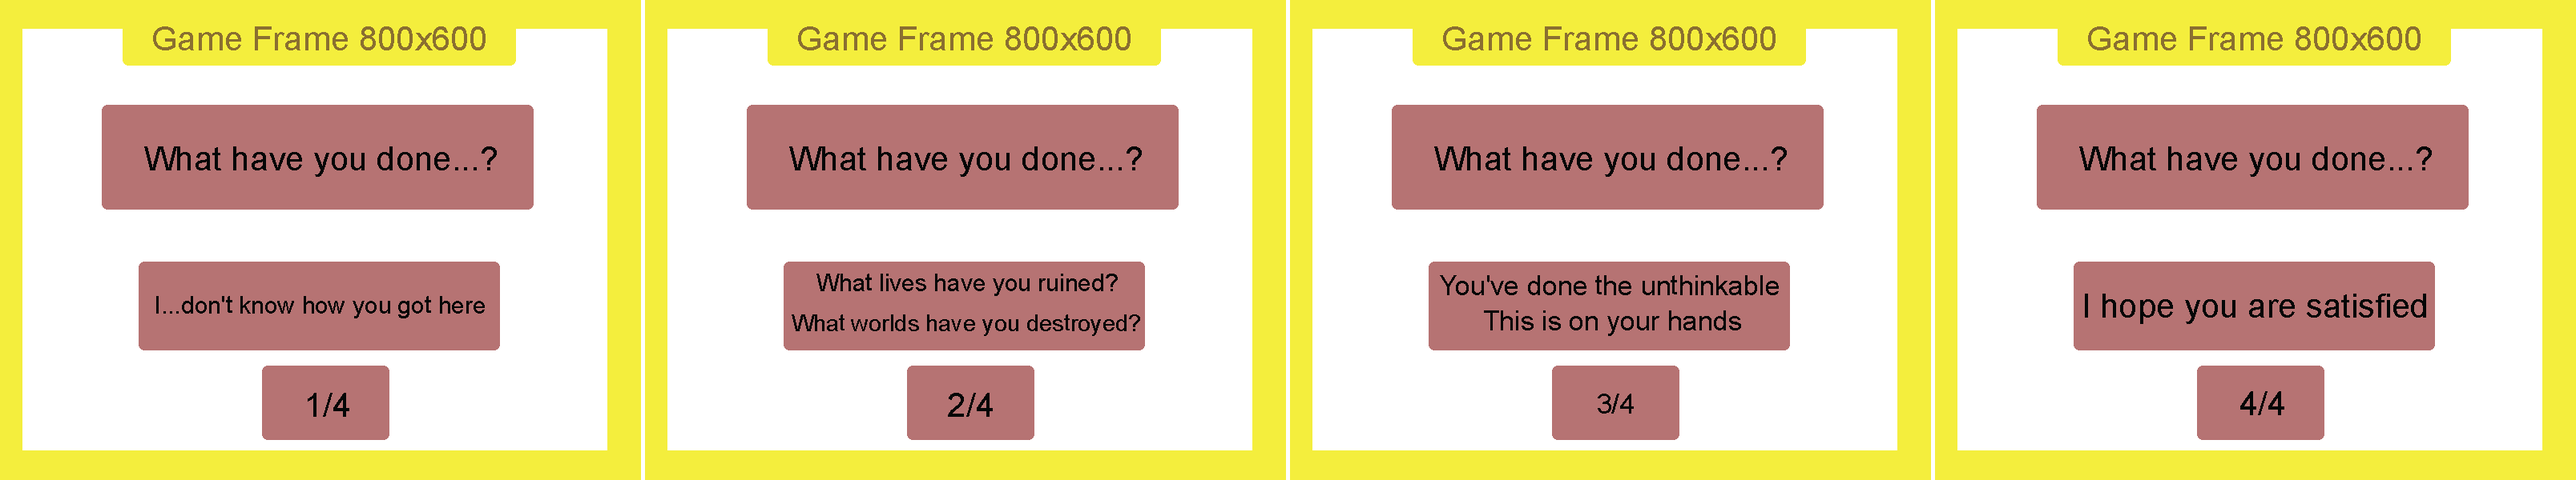
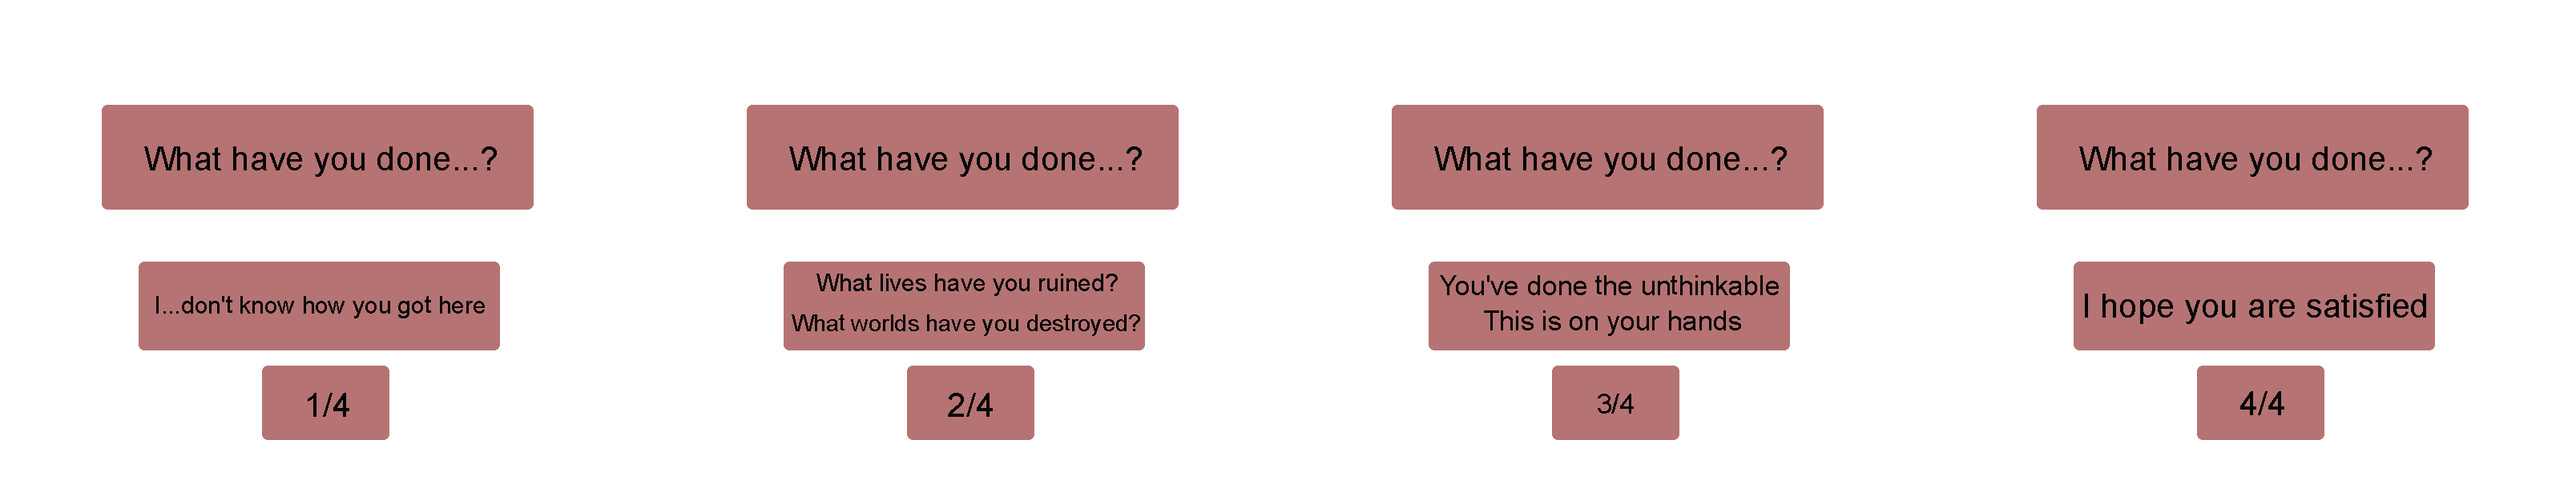
Asset upgrade

Changed region(s): [[0.0, 0.0, 1.0, 1.0]]

diff --git a/src/scenes/outro.rs b/src/scenes/outro.rs
@@ -4,10 +4,11 @@ use crate::game_logic::scene_type::{SceneReturn, PlayerType};
 use quicksilver::prelude::*;
 use quicksilver::graphics::Atlas;
 
-
 #[allow(unreachable_patterns, dead_code)]
 pub struct ElderOutro {
     outro_background: Asset<Image>,
+    outro_overlay: Asset<Image>,
+
     outro_scenes: Asset<Atlas>,
     curr_scene_index: usize,
     max_scenes: usize,
@@ -22,7 +23,8 @@ impl ElderOutro {
     /// Load the assets and initialise the game
     pub fn new() -> Result<Self> {
         let font_mononoki = "square.ttf";
-        let background = "GCSeamlessBackground800x600.png";
+        let background = "PHGameBackground.png";
+        let overlay = "PHOverlayFade.png";
         let enter = "Enter-120x90.png";
         //I declare like this because it is a sensible way to organize arbitrary ordered images
         let atlas_index = "Atlas_Outro_Index";
@@ -30,13 +32,15 @@ impl ElderOutro {
         //Font Load
         let text_info = Asset::new(Font::load(font_mononoki).and_then( |font| {
             font.render(
-                "Square font am I, outro this is.",
+                "You are in the outro.",
                 &FontStyle::new(20.0, Color::BLACK),
             )
         }));
 
         Ok(Self {
             outro_background: Asset::new(Image::load(background)),
+            outro_overlay: Asset::new(Image::load(overlay)),
+
             outro_scenes: Asset::new(Atlas::load(atlas_index)),
             curr_scene_index: 0,
             max_scenes: 4,
@@ -65,13 +69,25 @@ impl ElderOutro {
 
     /// Draw stuff on the screen
     pub fn draw(&mut self, window: &mut Window) -> Result<()> {
+        let window_center = Vector::new(window.screen_size().x as i32 / 2, window.screen_size().y as i32 / 2);
 
         // Draw the frame
         self.outro_background.execute(|image| {
             window.draw(
                 &image
                     .area()
-                    .with_center((window.screen_size().x as i32 / 2, window.screen_size().y as i32 / 2)),
+                    .with_center((window_center.x, window_center.y)),
+                Img(&image),
+            );
+            Ok(())
+        })?;
+
+        // Draw the background
+        self.outro_overlay.execute(|image| {
+            window.draw(
+                &image
+                    .area()
+                    .with_center((window_center.x, window_center.y)),
                 Img(&image),
             );
             Ok(())
@@ -93,7 +109,7 @@ impl ElderOutro {
         self.outro_scenes.execute(|image| {
             window.draw(
                 &image.get(atlas_key).expect("Failed to find key in outro::draw").unwrap_image().area()
-                    .with_center((window.screen_size().x as i32 / 2, window.screen_size().y as i32 / 2)),
+                    .with_center((window_center.x, window_center.y)),
                 Img(&image.get(atlas_key).expect("Failed to find key in outro::draw").unwrap_image()),
             );
             Ok(())
@@ -116,7 +132,7 @@ impl ElderOutro {
         self.text.execute(|image| {
             window.draw_ex(
                 &image.area()
-                    .translate((2 + 112, window.screen_size().y as i32 - 30 - 84)),
+                    .with_center((window_center.x, window_center.y + 286.0)),
                 Img(&image),
                 Transform::IDENTITY,
                 2,

diff --git a/src/scenes/intro.rs b/src/scenes/intro.rs
@@ -6,6 +6,8 @@ use quicksilver::graphics::Atlas;
 
 pub struct ElderIntro {
     intro_background: Asset<Image>,
+    intro_overlay: Asset<Image>,
+
     intro_scenes: Asset<Atlas>,
     curr_scene_index: usize,
     max_scenes: usize,
@@ -19,20 +21,23 @@ impl ElderIntro {
     /// Load the assets and initialise the game
     pub fn new() -> Result<Self> {
         let font_mononoki = "square.ttf";
-        let intro_background = "GCSeamlessBackground800x600.png";
+        let intro_background = "PHGameBackground.png";
+        let overlay = "PHOverlayFade.png";
         let enter = "Enter-120x90.png";
         let atlas_index = "Atlas_Intro_Index";
 
         //Font Load
         let text_info = Asset::new(Font::load(font_mononoki).and_then( |font| {
             font.render(
-                "Square font am I, intro this is.",
+                "You are in the intro.",
                 &FontStyle::new(20.0, Color::BLACK),
             )
         }));
 
         Ok(Self {
             intro_background: Asset::new(Image::load(intro_background)),
+            intro_overlay: Asset::new(Image::load(overlay)),
+
             intro_scenes: Asset::new(Atlas::load(atlas_index)),
             curr_scene_index: 0,
             max_scenes: 4,
@@ -62,13 +67,25 @@ impl ElderIntro {
 
     /// Draw stuff on the screen
     pub fn draw(&mut self, window: &mut Window) -> Result<()> {
+        let window_center = Vector::new(window.screen_size().x as i32 / 2, window.screen_size().y as i32 / 2);
 
         // Draw the background
         self.intro_background.execute(|image| {
             window.draw(
                 &image
                     .area()
-                    .with_center((window.screen_size().x as i32 / 2, window.screen_size().y as i32 / 2)),
+                    .with_center((window_center.x, window_center.y)),
+                Img(&image),
+            );
+            Ok(())
+        })?;
+
+        // Draw the background
+        self.intro_overlay.execute(|image| {
+            window.draw(
+                &image
+                    .area()
+                    .with_center((window_center.x, window_center.y)),
                 Img(&image),
             );
             Ok(())
@@ -82,7 +99,7 @@ impl ElderIntro {
         self.intro_scenes.execute(|image| {
             window.draw(
                 &image.get(atlas_key).expect("Failed to find key in intro::draw").unwrap_image().area()
-                    .with_center((window.screen_size().x as i32 / 2, window.screen_size().y as i32 / 2)),
+                    .with_center((window_center.x, window_center.y)),
                 Img(&image.get(atlas_key).expect("Failed to find key in intro::draw").unwrap_image()),
             );
             Ok(())
@@ -104,7 +121,7 @@ impl ElderIntro {
         self.text.execute(|image| {
             window.draw_ex(
                 &image.area()
-                    .translate((2 + 112, window.screen_size().y as i32 - 30 - 84)),
+                    .with_center((window_center.x, window_center.y + 286.0)),
                 Img(&image),
                 Transform::IDENTITY,
                 2,

diff --git a/src/scenes/game.rs b/src/scenes/game.rs
@@ -6,6 +6,7 @@ use quicksilver::graphics::Atlas;
 
 pub struct ElderGame {
     game_background: Asset<Image>,
+    game_overlay: Asset<Image>,
     text: Asset<Image>,
 
     //game_board layer
@@ -20,19 +21,21 @@ impl ElderGame {
     /// Load the assets and initialise the game
     pub fn new() -> Result<Self> {
         let font_mononoki = "square.ttf";
-        let background = "GCSeamlessBackground800x600.png";
+        let background = "Fog800x600.png";
+        let overlay = "PHOverlayFade.png";
         let atlas_index = "Atlas_Tile_Index";
 
         //Font Load
         let text_info = Asset::new(Font::load(font_mononoki).and_then( |font| {
             font.render(
-                "Square font am I, game this is.",
+                "WASD - move, 1/2/0 - end",
                 &FontStyle::new(20.0, Color::BLACK),
             )
         }));
 
         Ok(Self {
             game_background: Asset::new(Image::load(background)),
+            game_overlay: Asset::new(Image::load(overlay)),
             text: text_info,
 
             game_board: GameBoard::new().expect("Failed to load GameBoard in scenes::game::ElderGame::new"),
@@ -78,6 +81,17 @@ impl ElderGame {
             Ok(())
         })?;
 
+        //Draw Overlay
+        self.game_overlay.execute(|image| {
+            window.draw(
+                &image
+                    .area()
+                    .with_center((window_center.x, window_center.y)),
+                Img(&image),
+            );
+            Ok(())
+        })?;
+
         // Draw GameBoard, calculates coordinates from the center for a 19x15 board of 40x40 pixels
         for cell in self.game_board.get_board().unwrap() {
             let tile_key = cell.get_land().expect("Failed to get Terrain game::draw").key().expect("No known key for tile.");
@@ -97,7 +111,7 @@ impl ElderGame {
             window.draw(
                 &image
                     .area()
-                    .translate((2 + 112, window.screen_size().y as i32 - 30 - 84)),
+                    .with_center((window_center.x, window_center.y + 286.0)),
                 Img(&image),
             );
             Ok(())

diff --git a/src/game_logic/main_state.rs b/src/game_logic/main_state.rs
@@ -43,7 +43,7 @@ impl State for Game {
         //Large/universal data allocations, waste not want not
         let music = MusicPlayer::new("vgm21.wav", 19.0, 1.0)
             .expect("Cannot initialize MusicPlayer in main_state::new");
-        let game_overlay = Asset::new(Image::load("FrameBorder1024x768.png"));
+        let game_overlay = Asset::new(Image::load("PHOverlay.png"));
 
         //Scene order allocation, this defines the order of states
         let scenes: Vec<SceneType> = vec![SceneType::Intro, SceneType::Game, SceneType::Outro];
